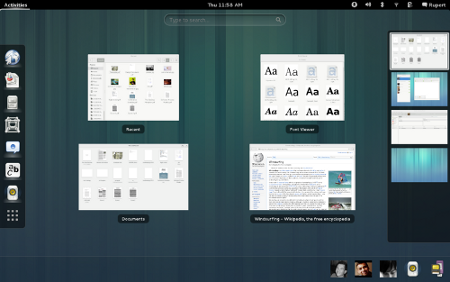
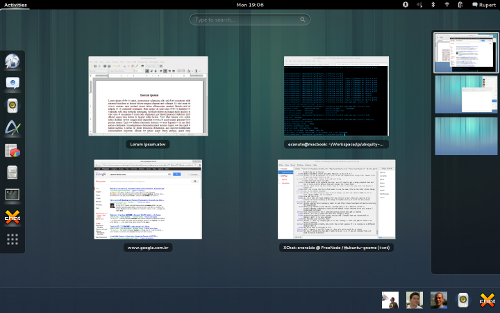
Resize and fix slide images for Ubuntu GNOME

diff --git a/slideshows/ubuntu-gnome/slides/link/base.css b/slideshows/ubuntu-gnome/slides/link/base.css
@@ -47,7 +47,8 @@ html, body {
 Hyperlink-style text
 */
 a {
-	color:#4A98EB;
+	font-size:22px;
+	color:#FFFFFF;
 	text-decoration:none;
 	display:inline;
 }
@@ -161,8 +162,8 @@ Inner space is 224px wide.
 .main > .text {
 	position:absolute;
 	z-index:10;
-	top:25px;
-	left:36px;
+	top:100px;
+	left:40px;
 	width:248px;
 	bottom:35px;
 	min-height:329px; /* 369 - 25 - 15 (for bottom) */
@@ -228,26 +229,16 @@ Inner space is 224px wide.
 	z-index:2;
 }
 
-/* Expects logo to be 448x304 px */
-.main > .logo {
-	position:absolute;
-	top:30px;
-	right:152px;
-	
-	z-index:2;
-}
-
 /* Expects screenshot to be 448x304 px */
 .main > .screenshot {
 	position:absolute;
-	top:35px;
-	right:-2px; /* offsets 2px margin of .main */
+	top:30px;
+	right:125px;
 	
 	z-index:2;
-	
-	-webkit-box-shadow:#999999 0px 0px 5px;
-	-moz-box-shadow:#999999 0px 0px 5px;
-	box-shadow:#999999 0px 0px 5px;
+
+	-webkit-border-radius: 3px;
+	border-radius: 3px;
 }
 
 /* Expects screenshot to be 748x370 px */

diff --git a/slideshows/ubuntu-gnome/slides/index.html b/slideshows/ubuntu-gnome/slides/index.html
@@ -31,14 +31,13 @@
 <div id="wrapper">
 	<div id="slideshow">
 		<div><a href="00_welcome.html"></a></div>
-		<div><a href="01_gnome.html"></a></div>
-		<div><a href="02_beautiful.html"></a></div>
-		<div><a href="03_overview.html"></a></div>
-		<div><a href="04_everything.html"></a></div>
-		<div><a href="05_web.html"></a></div>
-		<div><a href="06_batteries.html"></a></div>
-		<div><a href="07_messaging.html"></a></div>
-		<div><a href="08_gethelp.html"></a></div>
+		<div><a href="01_overview.html"></a></div>
+		<div><a href="02_everything.html"></a></div>
+		<div><a href="03_beautiful.html"></a></div>
+		<div><a href="04_web.html"></a></div>
+		<div><a href="05_documents.html"></a></div>
+		<div><a href="06_messaging.html"></a></div>
+		<div><a href="07_gethelp.html"></a></div>
 	</div>
 
 	<div id="controls">

diff --git a/slideshows/ubuntu-gnome/slides/07_gethelp.html b/slideshows/ubuntu-gnome/slides/07_gethelp.html
@@ -1,0 +1,18 @@
+<div class="header"><h1 class="slidetitle">Ubuntu GNOME 12.10</h1></div>
+
+<div class="main wide">
+
+<div class="text">
+
+<div>
+<p><a href="http://askubuntu.com/">http://askubuntu.com</a></p>
+<p><a href="http://www.ubuntu.com/support">http://www.ubuntu.com/support</a>.</p>
+</div>
+
+</div>
+
+<img class="background" src="screenshots/welcome.jpg" />
+
+<img class="icon" src="icons/help-browser.png" />
+
+</div>

diff --git a/slideshows/ubuntu-gnome/slides/00_welcome.html b/slideshows/ubuntu-gnome/slides/00_welcome.html
@@ -2,14 +2,8 @@
 
 <div class="main wide">
 
-<div class="text">
-
-<div>
-<p>Fast and full of new features, the latest version of Ubuntu makes computing easier than ever. Here are just a few cool new things to look out for…</p>
-</div>
-
-</div>
-
 <img class="background" src="screenshots/welcome.jpg" />
+
+<img class="screenshot" src="screenshots/gnome.png" />
 
 </div>

diff --git a/slideshows/ubuntu-gnome/slides/02_everything.html b/slideshows/ubuntu-gnome/slides/02_everything.html
@@ -1,0 +1,7 @@
+<div class="header"><h1 class="slidetitle">Ubuntu GNOME 12.10</h1></div>
+
+<div class="main">
+
+<img class="screenshot" src="screenshots/everything.png" />
+
+</div>

diff --git a/slideshows/ubuntu-gnome/slides/03_beautiful.html b/slideshows/ubuntu-gnome/slides/03_beautiful.html
@@ -1,0 +1,7 @@
+<div class="header"><h1 class="slidetitle">Ubuntu GNOME 12.10</h1></div>
+
+<div class="main">
+
+<img class="screenshot" src="screenshots/beautiful.png" />
+
+</div>

diff --git a/slideshows/ubuntu-gnome/slides/05_documents.html b/slideshows/ubuntu-gnome/slides/05_documents.html
@@ -1,0 +1,7 @@
+<div class="header"><h1 class="slidetitle">Ubuntu GNOME 12.10</h1></div>
+
+<div class="main">
+
+<img class="screenshot" src="screenshots/documents.png" />
+
+</div>

diff --git a/slideshows/ubuntu-gnome/slides/06_messaging.html b/slideshows/ubuntu-gnome/slides/06_messaging.html
@@ -1,0 +1,7 @@
+<div class="header"><h1 class="slidetitle">Ubuntu GNOME 12.10</h1></div>
+
+<div class="main">
+
+<img class="screenshot" src="screenshots/messaging.png" />
+
+</div>

diff --git a/slideshows/ubuntu-gnome/slides/01_overview.html b/slideshows/ubuntu-gnome/slides/01_overview.html
@@ -1,0 +1,7 @@
+<div class="header"><h1 class="slidetitle">Ubuntu GNOME 12.10</h1></div>
+
+<div class="main">
+
+<img class="screenshot" src="screenshots/overview.png" />
+
+</div>

diff --git a/slideshows/ubuntu-gnome/slides/04_web.html b/slideshows/ubuntu-gnome/slides/04_web.html
@@ -1,0 +1,7 @@
+<div class="header"><h1 class="slidetitle">Ubuntu GNOME 12.10</h1></div>
+
+<div class="main">
+
+<img class="screenshot" src="screenshots/web.png" />
+
+</div>
